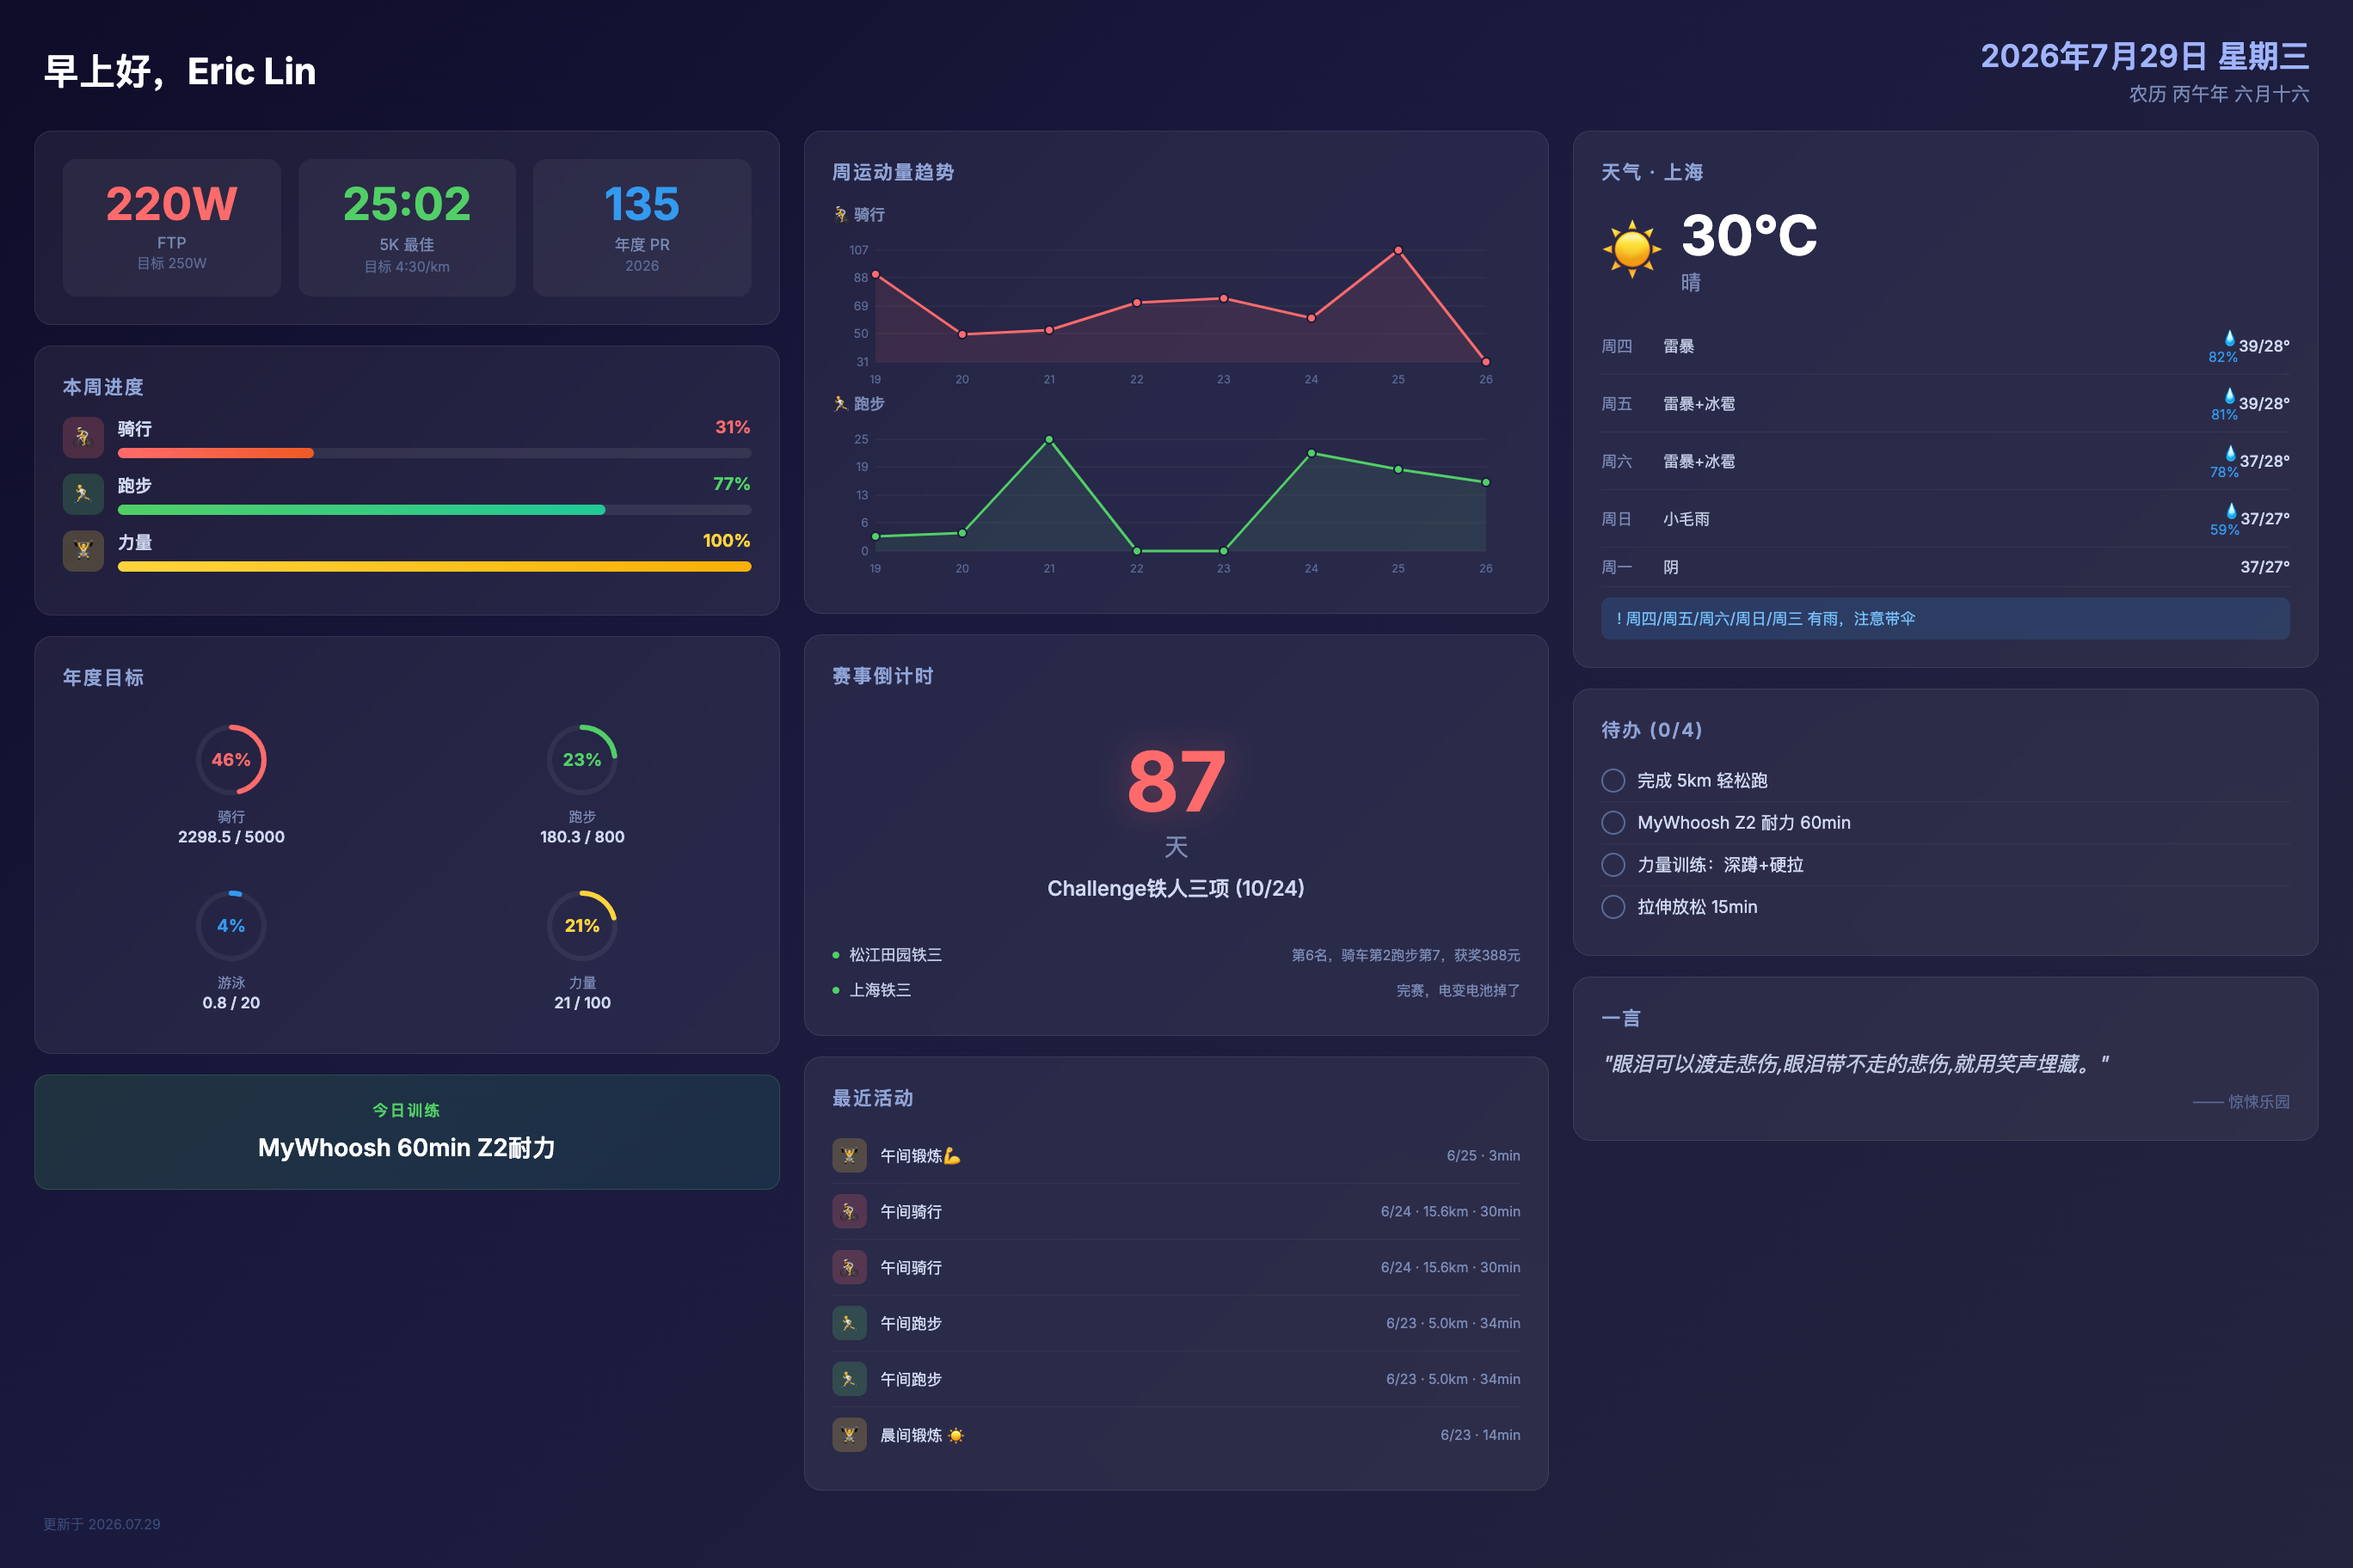
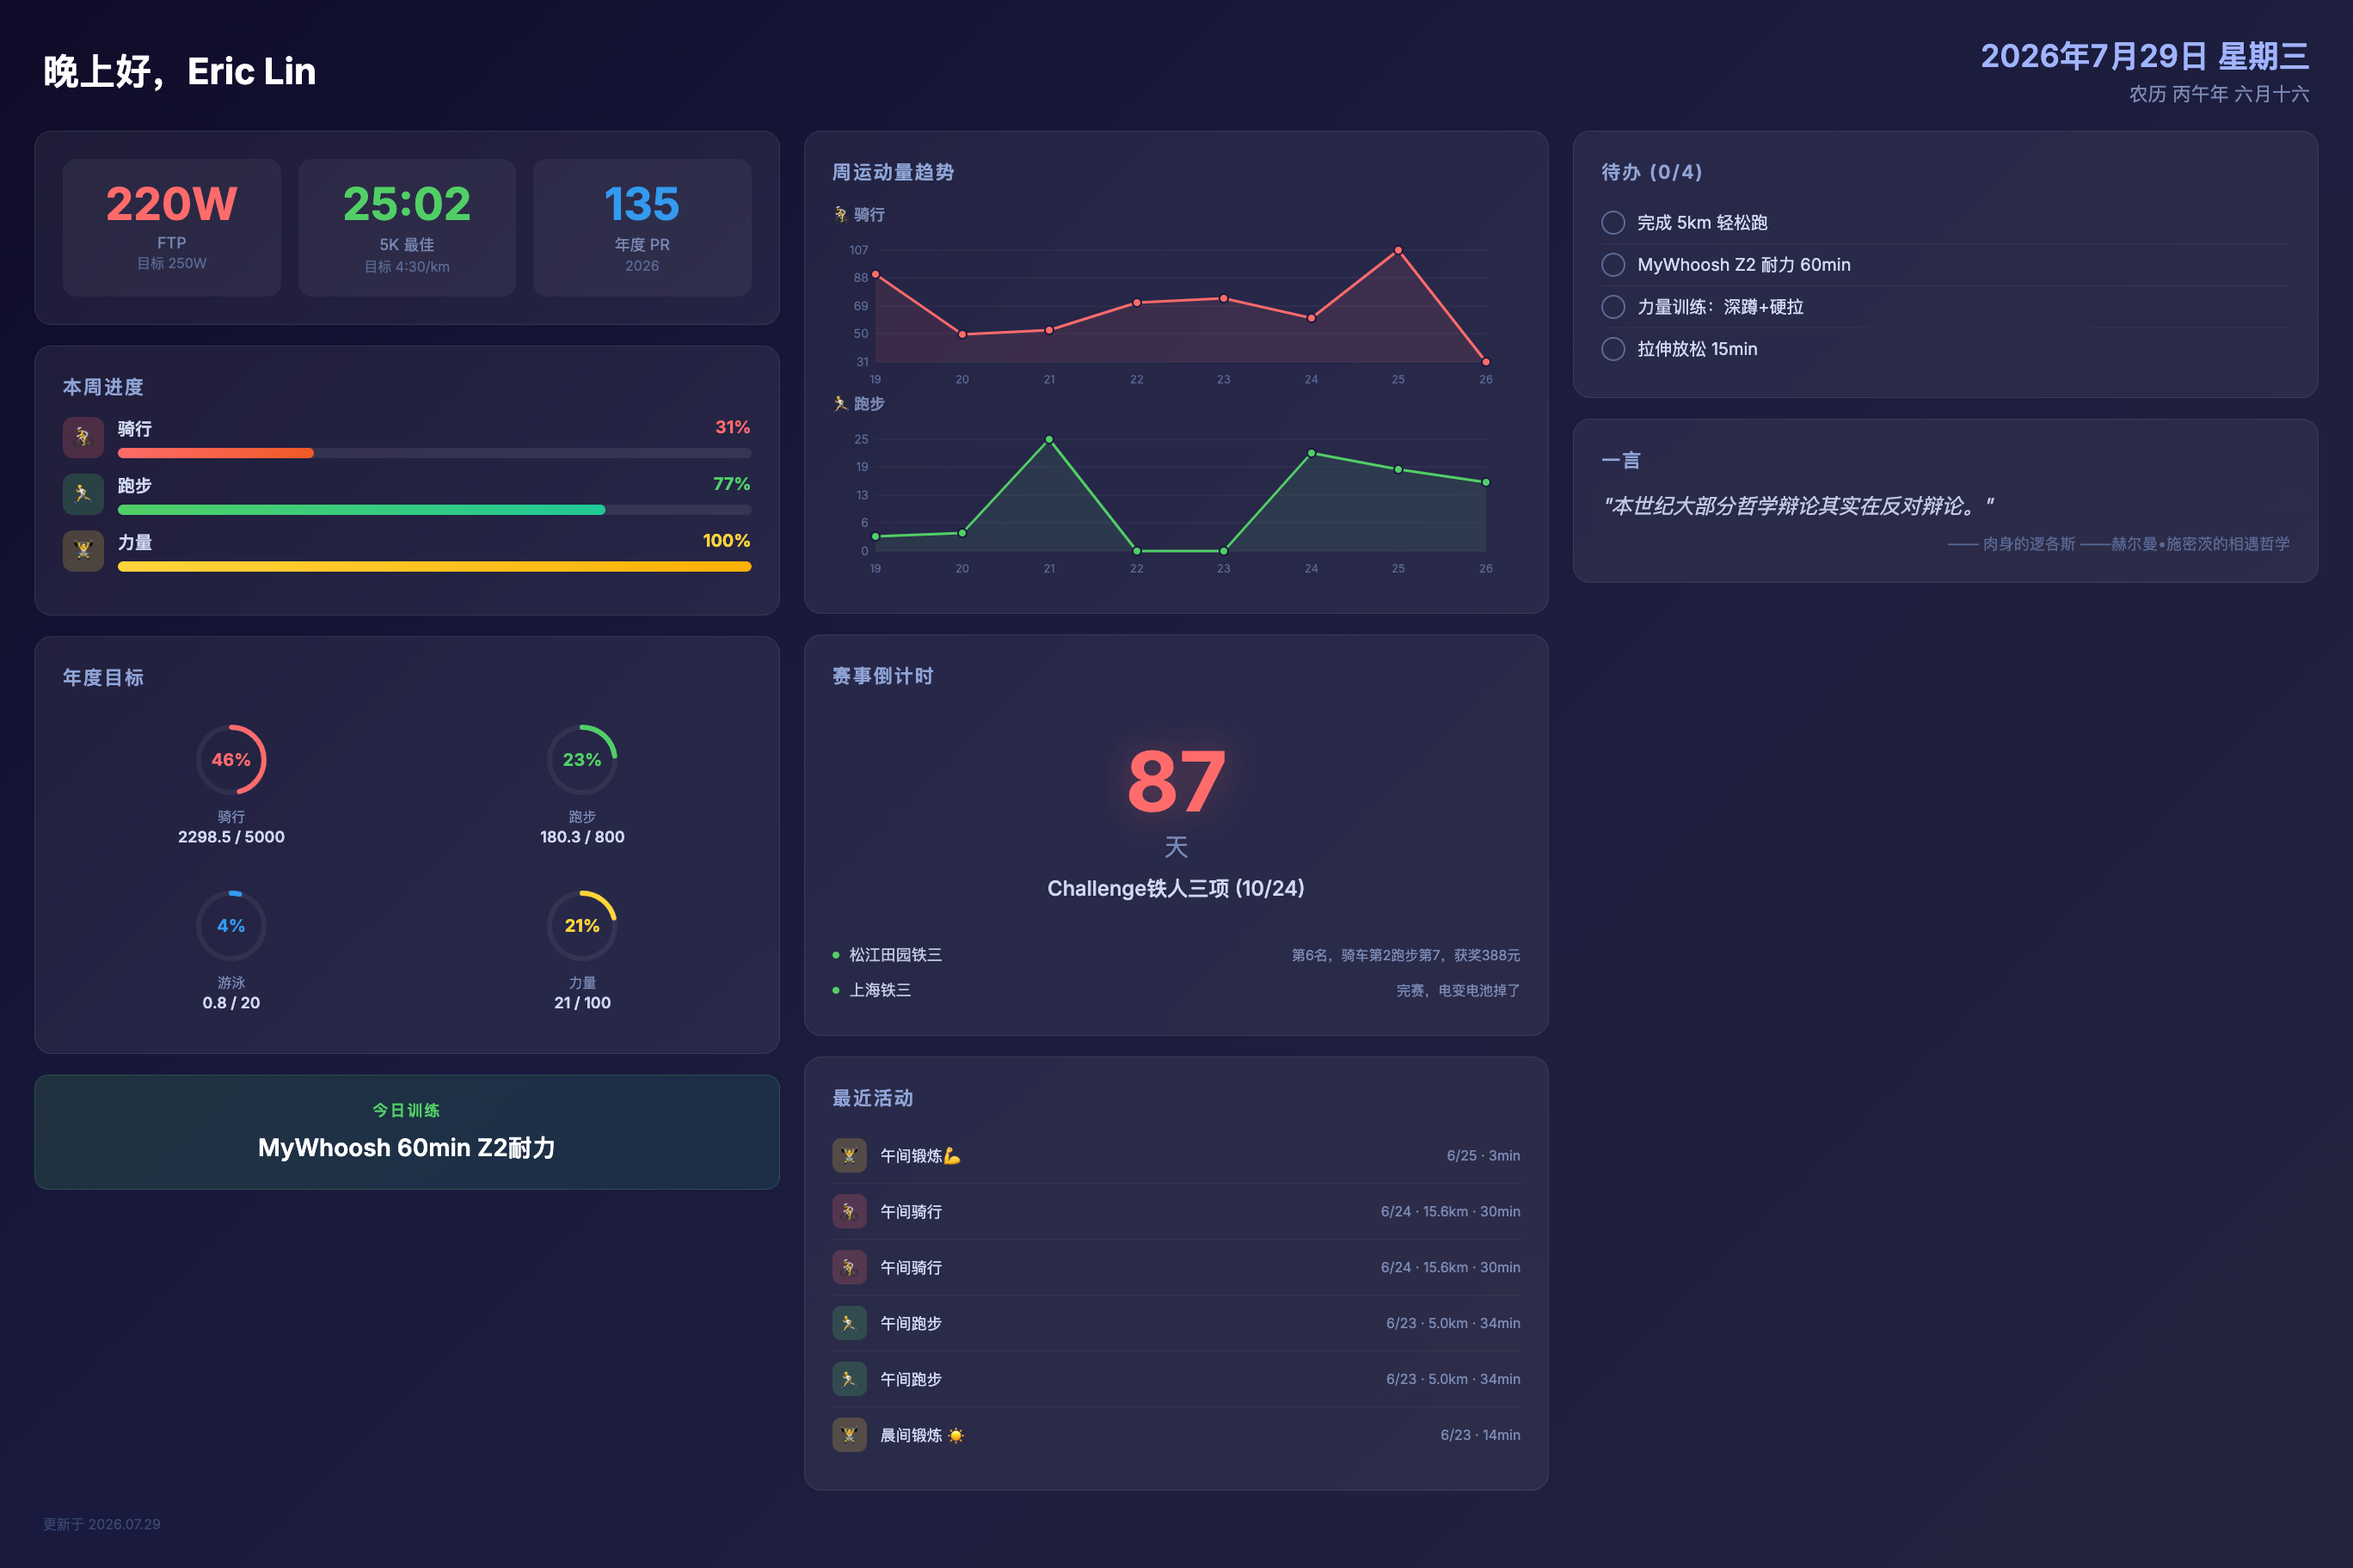
deploy: 2026-07-29-20:00

diff --git a/screensaver.html b/screensaver.html
@@ -490,7 +490,7 @@ html, body {
 <!-- ===== TOP BAR ===== -->
 <div class="top-bar">
   <div>
-    <div class="greeting">早上好，Eric Lin</div>
+    <div class="greeting">晚上好，Eric Lin</div>
     
   </div>
   <div class="date-info">
@@ -805,58 +805,6 @@ html, body {
 
   <!-- Weather -->
   
-  <div class="card">
-    <div class="card-title">天气 · 上海</div>
-    <div class="weather-current">
-      <div class="weather-icon-big">☀</div>
-      <div>
-        <div class="weather-temp-big">30°C</div>
-        <div class="weather-desc">晴</div>
-      </div>
-    </div>
-    
-    
-    <div class="forecast-row">
-      <div class="forecast-day">周四</div>
-      <div class="forecast-desc">雷暴</div>
-      <div class="forecast-precip">💧82%</div>
-      <div class="forecast-range">39/28°</div>
-    </div>
-    
-    <div class="forecast-row">
-      <div class="forecast-day">周五</div>
-      <div class="forecast-desc">雷暴+冰雹</div>
-      <div class="forecast-precip">💧81%</div>
-      <div class="forecast-range">39/28°</div>
-    </div>
-    
-    <div class="forecast-row">
-      <div class="forecast-day">周六</div>
-      <div class="forecast-desc">雷暴+冰雹</div>
-      <div class="forecast-precip">💧78%</div>
-      <div class="forecast-range">37/28°</div>
-    </div>
-    
-    <div class="forecast-row">
-      <div class="forecast-day">周日</div>
-      <div class="forecast-desc">小毛雨</div>
-      <div class="forecast-precip">💧59%</div>
-      <div class="forecast-range">37/27°</div>
-    </div>
-    
-    <div class="forecast-row">
-      <div class="forecast-day">周一</div>
-      <div class="forecast-desc">阴</div>
-      <div class="forecast-precip"></div>
-      <div class="forecast-range">37/27°</div>
-    </div>
-    
-    
-    
-    <div class="rain-alert">! 周四/周五/周六/周日/周三 有雨，注意带伞</div>
-    
-  </div>
-  
 
   <!-- Todos -->
   
@@ -902,9 +850,9 @@ html, body {
   
   <div class="card">
     <div class="card-title">一言</div>
-    <div class="quote-text">"眼泪可以渡走悲伤,眼泪带不走的悲伤,就用笑声埋藏。"</div>
+    <div class="quote-text">"本世纪大部分哲学辩论其实在反对辩论。"</div>
     
-    <div class="quote-from">—— 惊悚乐园</div>
+    <div class="quote-from">—— 肉身的逻各斯 ——赫尔曼•施密茨的相遇哲学</div>
     
   </div>
   

diff --git a/life.html b/life.html
@@ -133,74 +133,6 @@ html, body {
 
 <!-- ===== 天气 ===== -->
 
-<div class="box">
-  <p class="section-title">☀ 天气 · 上海</p>
-  <table class="weather-table">
-    <tr>
-      <td class="weather-icon">*</td>
-      <td class="weather-temp">30°C</td>
-      <td class="weather-desc">晴</td>
-    </tr>
-  </table>
-  
-  <table class="forecast-table">
-    
-    <tr>
-      <td class="forecast-day">周四</td>
-      <td class="forecast-icon">!</td>
-      <td>雷暴</td>
-      <td class="forecast-range">39/28°C</td>
-    </tr>
-    
-    <tr>
-      <td class="forecast-day">周五</td>
-      <td class="forecast-icon">!</td>
-      <td>雷暴+冰雹</td>
-      <td class="forecast-range">39/28°C</td>
-    </tr>
-    
-    <tr>
-      <td class="forecast-day">周六</td>
-      <td class="forecast-icon">!</td>
-      <td>雷暴+冰雹</td>
-      <td class="forecast-range">37/28°C</td>
-    </tr>
-    
-    <tr>
-      <td class="forecast-day">周日</td>
-      <td class="forecast-icon">.</td>
-      <td>小毛雨</td>
-      <td class="forecast-range">37/27°C</td>
-    </tr>
-    
-    <tr>
-      <td class="forecast-day">周一</td>
-      <td class="forecast-icon">~</td>
-      <td>阴</td>
-      <td class="forecast-range">37/27°C</td>
-    </tr>
-    
-    <tr>
-      <td class="forecast-day">周二</td>
-      <td class="forecast-icon">~</td>
-      <td>阴</td>
-      <td class="forecast-range">36/27°C</td>
-    </tr>
-    
-    <tr>
-      <td class="forecast-day">周三</td>
-      <td class="forecast-icon">!</td>
-      <td>雷暴+冰雹</td>
-      <td class="forecast-range">34/28°C</td>
-    </tr>
-    
-  </table>
-  
-  
-  <div class="rain-alert">! 周四/周五/周六/周日/周三 有雨，注意带伞</div>
-  
-</div>
-
 
 <!-- ===== 今日 ===== -->
 <div class="box">
@@ -261,9 +193,9 @@ html, body {
 
 <div class="box">
   <p class="section-title">💬 一言</p>
-  <p class="quote-text">眼泪可以渡走悲伤,眼泪带不走的悲伤,就用笑声埋藏。</p>
+  <p class="quote-text">本世纪大部分哲学辩论其实在反对辩论。</p>
   
-  <p class="quote-from">—— 惊悚乐园</p>
+  <p class="quote-from">—— 肉身的逻各斯 ——赫尔曼•施密茨的相遇哲学</p>
   
 </div>
 
